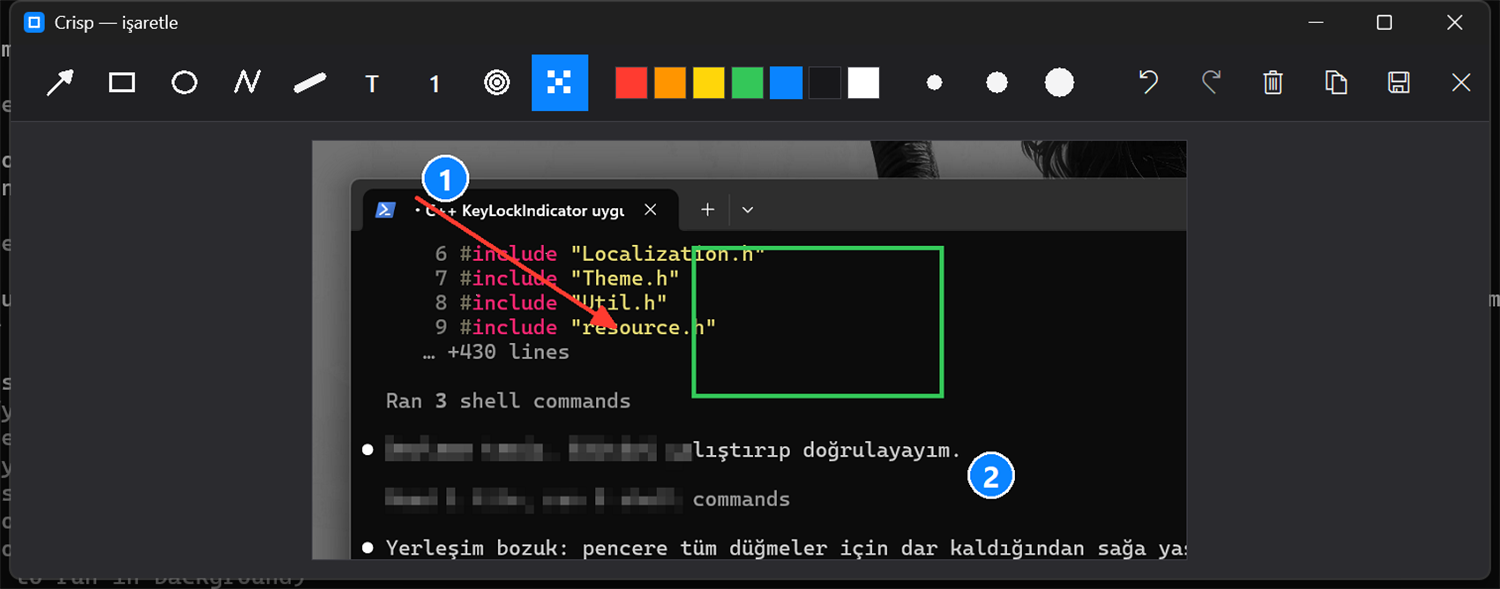
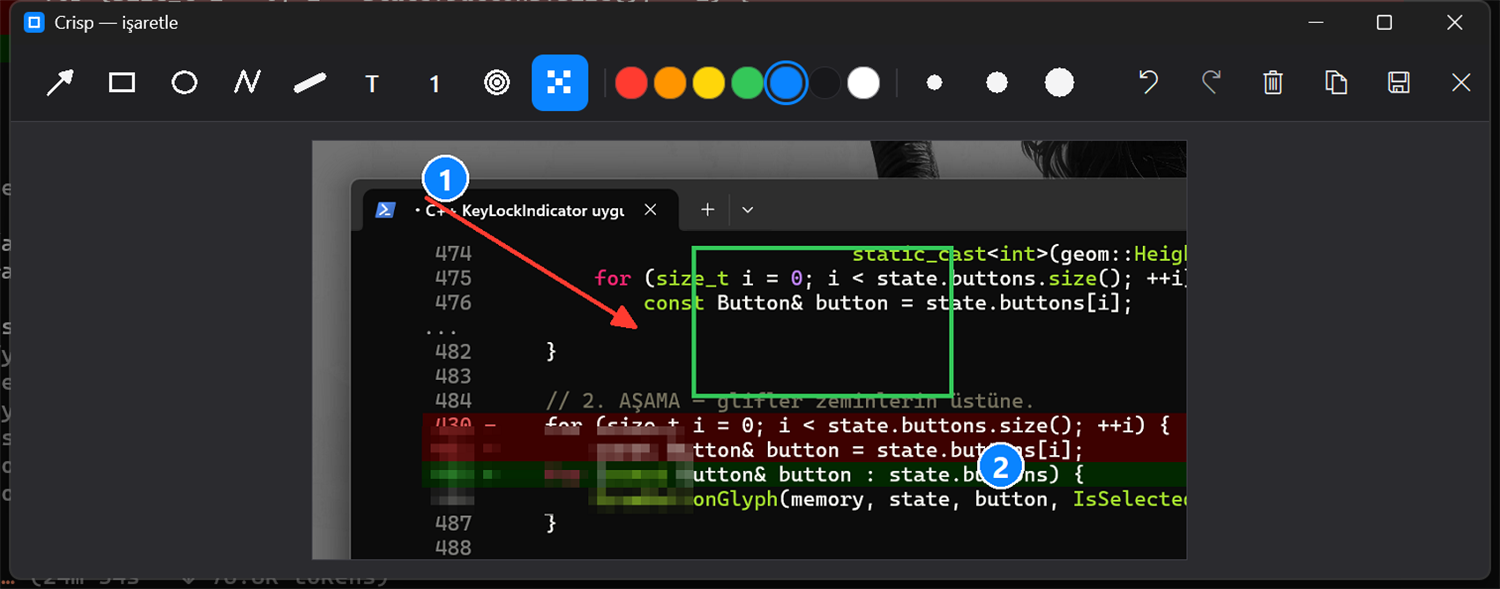
Redraw the editor toolbar
The first version worked and looked cheap: flat square buttons, a hard blue
block for the selected tool, square colour swatches that read as more buttons,
and no visual break between the tool, colour, thickness and action groups.

Button backgrounds now go through the alpha layer written for the text overlay.
GDI's RoundRect has no antialiasing, so rounded corners drawn with it come out
jagged — which is why the first pass used squares. Rasterising them into a
premultiplied surface with per-pixel corner coverage and blending once gives
clean edges and costs one blit rather than fifteen.

Selected tool is a rounded pill, hover is a soft 10% wash rather than a filled
rectangle. Colour swatches became circles with a ring on the selected one:
squares gave them the same silhouette as the tool buttons, so the eye read them
as another row of tools, and recolouring the selected swatch to show selection
would have made it unrecognisable as the colour it stands for.

Separators between groups are short centred rules, not full-height dividers —
full height would chop the toolbar into compartments and make it heavier than
the content warrants.

Separators are also skipped in hit testing. Without that, a click landing
between two groups would be swallowed instead of reaching the button next to it.

152 tests pass, warning-free at /W4, 369 KB.

Claude-Session: https://claude.ai/code/session_01Nez6huLy3DkP5VxwZNyg3o

diff --git a/src/EditorWindow.cpp b/src/EditorWindow.cpp
@@ -179,18 +179,66 @@ void DrawActionGlyph(HDC dc, const RECT& box, int action, COLORREF color,
     ::DeleteObject(created);
 }
 
-void DrawButton(HDC dc, const State& state, const Button& button, bool selected,
-                bool hovered) {
+// Düğme ZEMİNLERİ alfa katmanına, GLİFLERİ doğrudan DC'ye çizilir. Zeminler
+// yuvarlatılmış ve kenar yumuşatmalı olmalı; GDI'nin RoundRect'i yumuşatma
+// yapmaz ve köşeler tırtıklı çıkar — düz kare düğmelerin ucuz durmasının
+// sebebi de buydu.
+void DrawButtonBackground(AlphaLayer& layer, const State& state,
+                          const Button& button, bool selected, bool hovered) {
     const Palette& colors = theme::Colors();
-    const int radius = Scale(6, state.dpi);
-    (void)radius;
+    const int radius = Scale(8, state.dpi);
 
-    if (selected) {
-        FillRectColor(dc, button.bounds, colors.accent);
-    } else if (hovered && button.enabled) {
-        FillRectColor(dc, button.bounds, colors.surfaceAlt);
+    if (button.kind == ButtonKind::Separator) {
+        // Grup ayracı: tam yükseklikte değil, ortada kısa bir çizgi. Tam boy
+        // bir çizgi araç çubuğunu bölmelere ayırıp ağırlaştırırdı.
+        const int inset = Scale(9, state.dpi);
+        const RECT line{button.bounds.left, button.bounds.top + inset,
+                        button.bounds.left + (std::max)(1, Scale(1, state.dpi)),
+                        button.bounds.bottom - inset};
+        layer.FillRoundRect(line, colors.border, 190, 0);
+        return;
     }
 
+    if (button.kind == ButtonKind::Color) {
+        // Renk örnekleri DAİRE: kare örnekler araç simgeleriyle aynı siluete
+        // sahip olduğu için göz onları da düğme sanıyordu.
+        RECT swatch = button.bounds;
+        const int r = static_cast<int>(geom::Width(swatch)) / 2;
+        if (selected) {
+            // Seçili renk bir halkayla işaretlenir; örneğin kendi rengini
+            // değiştirmek onu tanınmaz hâle getirirdi.
+            RECT ring = swatch;
+            ::InflateRect(&ring, Scale(4, state.dpi), Scale(4, state.dpi));
+            layer.StrokeRoundRect(ring, colors.accent, 255,
+                                  static_cast<int>(geom::Width(ring)) / 2,
+                                  (std::max)(2, Scale(2, state.dpi)));
+        }
+        layer.FillRoundRect(swatch, button.color, 255, r);
+        // İnce çerçeve: beyaz örnek açık zeminde, koyu örnek koyu zeminde
+        // kaybolurdu.
+        layer.StrokeRoundRect(swatch, colors.border, 150, r, 1);
+        return;
+    }
+
+    if (selected) {
+        layer.FillRoundRect(button.bounds, colors.accent, 255, radius);
+    } else if (hovered && button.enabled) {
+        layer.FillRoundRect(button.bounds, colors.text, 26, radius);
+    }
+}
+
+[[nodiscard]] bool IsSelected(const State& state, const Button& button) noexcept {
+    switch (button.kind) {
+        case ButtonKind::Tool:      return button.tool == state.tool;
+        case ButtonKind::Color:     return button.color == state.color;
+        case ButtonKind::Thickness: return button.thickness == state.thickness;
+        default:                    return false;
+    }
+}
+
+void DrawButtonGlyph(HDC dc, const State& state, const Button& button,
+                     bool selected) {
+    const Palette& colors = theme::Colors();
     const COLORREF ink =
         button.enabled ? (selected ? RGB(255, 255, 255) : colors.text)
                        : colors.textDim;
@@ -199,16 +247,7 @@ void DrawButton(HDC dc, const State& state, const Button& button, bool selected,
         case ButtonKind::Tool:
             DrawToolGlyph(dc, button.bounds, button.tool, ink, state.dpi);
             break;
-        case ButtonKind::Color: {
-            FillRectColor(dc, button.bounds, button.color);
-            // Beyaz örnek koyu zeminde kaybolmasın diye herkese çerçeve.
-            FrameRectColor(dc, button.bounds, selected ? Scale(2, state.dpi) : 1,
-                           selected ? colors.accent : colors.border);
-            break;
-        }
         case ButtonKind::Thickness: {
-            // Yarıçap kalınlıkla ORANTILI ama küçük: 7 kalınlık için 2
-            // kat büyütmek düğmeyi dolduran bir daire üretiyordu.
             const int dot = Scale(button.thickness + 3, state.dpi);
             const int cx = button.bounds.left +
                            static_cast<int>(geom::Width(button.bounds)) / 2;
@@ -228,6 +267,8 @@ void DrawButton(HDC dc, const State& state, const Button& button, bool selected,
         case ButtonKind::Action:
             DrawActionGlyph(dc, button.bounds, button.action, ink, state.dpi);
             break;
+        default:
+            break;   // renk ve ayraç yalnızca zeminde
     }
 }
 
@@ -261,6 +302,7 @@ void LayoutButtons(State& state, const RECT& client) {
     const int gap = Scale(kButtonGap, state.dpi);
     const int group = Scale(kGroupGap, state.dpi);
     const int top = (Scale(kToolbarHeight, state.dpi) - side) / 2;
+    const unsigned dpiLocal = state.dpi;
     int x = group;
 
     for (const ToolKind tool :
@@ -275,7 +317,16 @@ void LayoutButtons(State& state, const RECT& client) {
         x += side + gap;
     }
 
-    x += group;
+    auto addSeparator = [&]() {
+        Button separator;
+        separator.kind = ButtonKind::Separator;
+        separator.bounds = RECT{x + group / 2, top, x + group / 2 + Scale(2, dpiLocal),
+                                top + side};
+        state.buttons.push_back(separator);
+        x += group;
+    };
+
+    addSeparator();
     const int swatch = Scale(kSwatchSide, state.dpi);
     const int swatchTop = (Scale(kToolbarHeight, state.dpi) - swatch) / 2;
     for (const COLORREF color : kPalette) {
@@ -287,7 +338,7 @@ void LayoutButtons(State& state, const RECT& client) {
         x += swatch + gap;
     }
 
-    x += group;
+    addSeparator();
     for (const int thickness : {2, 4, 7}) {
         Button button;
         button.kind = ButtonKind::Thickness;
@@ -364,6 +415,11 @@ POINT ToImage(const State& state, POINT client) noexcept {
 
 int ButtonAt(const State& state, POINT client) noexcept {
     for (size_t i = 0; i < state.buttons.size(); ++i) {
+        // Ayraçlar tıklanamaz: aralarına düşen bir tıklama, yanındaki düğmenin
+        // seçilmesini engellerdi.
+        if (state.buttons[i].kind == ButtonKind::Separator) {
+            continue;
+        }
         if (::PtInRect(&state.buttons[i].bounds, client)) {
             return static_cast<int>(i);
         }
@@ -405,7 +461,6 @@ void Paint(HWND window, State& state) {
     const Palette& colors = theme::Colors();
     FillRectColor(memory, client, colors.surfaceAlt);
 
-    // Araç çubuğu
     const RECT toolbar{0, 0, geom::Width(client),
                        Scale(kToolbarHeight, state.dpi)};
     FillRectColor(memory, toolbar, colors.surface);
@@ -413,18 +468,22 @@ void Paint(HWND window, State& state) {
                   RECT{0, toolbar.bottom - 1, toolbar.right, toolbar.bottom},
                   colors.border);
 
-    for (size_t i = 0; i < state.buttons.size(); ++i) {
-        const Button& button = state.buttons[i];
-        bool selected = false;
-        if (button.kind == ButtonKind::Tool) {
-            selected = (button.tool == state.tool);
-        } else if (button.kind == ButtonKind::Color) {
-            selected = (button.color == state.color);
-        } else if (button.kind == ButtonKind::Thickness) {
-            selected = (button.thickness == state.thickness);
+    // 1. AŞAMA — zeminler tek bir alfa katmanına, sonra tek karıştırma.
+    if (state.chrome.Prepare(memory, POINT{0, 0},
+                             static_cast<int>(geom::Width(toolbar)),
+                             static_cast<int>(geom::Height(toolbar)))) {
+        for (size_t i = 0; i < state.buttons.size(); ++i) {
+            const Button& button = state.buttons[i];
+            DrawButtonBackground(state.chrome, state, button,
+                                 IsSelected(state, button),
+                                 state.hoverButton == static_cast<int>(i));
         }
-        DrawButton(memory, state, button, selected,
-                   state.hoverButton == static_cast<int>(i));
+        state.chrome.BlendTo(memory);
+    }
+
+    // 2. AŞAMA — glifler zeminlerin üstüne.
+    for (const Button& button : state.buttons) {
+        DrawButtonGlyph(memory, state, button, IsSelected(state, button));
     }
 
     // Tuval

diff --git a/src/EditorInternal.h b/src/EditorInternal.h
@@ -7,6 +7,7 @@
 // bir dosya NE göründüğünü, diğeri NE OLDUĞUNU anlatır.
 #pragma once
 
+#include "AlphaLayer.h"
 #include "Annotation.h"
 #include "Capture.h"
 #include "EditorWindow.h"
@@ -26,7 +27,7 @@ inline constexpr int kButtonGap = 4;
 inline constexpr int kGroupGap = 14;
 inline constexpr int kSwatchSide = 22;
 
-enum class ButtonKind { Tool, Color, Thickness, Action };
+enum class ButtonKind { Tool, Color, Thickness, Action, Separator };
 
 enum ActionId {
     kActionUndo = 1,
@@ -76,6 +77,14 @@ struct State {
 
     RECT canvas{};
     double scale = 1.0;
+
+    // Araç çubuğunun yuvarlatılmış zeminleri tek bir alfa katmanına çizilip
+    // bir kerede karıştırılır; şekil başına AlphaBlend on beş blit demek olurdu.
+    AlphaLayer chrome;
+
+    // İpucu balonu: imleç bir düğmede beklediğinde açılır.
+    int tooltipButton = -1;
+    bool tooltipVisible = false;
 };
 
 [[nodiscard]] int Scale(int value, unsigned dpi) noexcept;
